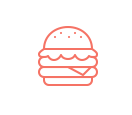
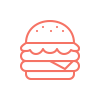
info page done

Changed region(s): [[0.18, 0.18, 0.81, 0.81], [0.48, 0.3, 0.54, 0.33]]

diff --git a/css/style.css b/css/style.css
@@ -4,16 +4,43 @@ body {
 }
 @font-face {
     font-family: Custom;
-    src: url("../font/Lato-Bla.ttf"),
-    url("../font/Lato-BlaIta.ttf"),
-    url("../font/Lato-Bol.ttf"),
-    url("../font/Lato-Bolita.ttf"),
-    url("../font/Lato-Hai.ttf"),
-    url("../font/Lato-HaiIta.ttf"),
-    url("../font/Lato-Lig.ttf"),
-    url("../font/Lato-LigIta.ttf"),
-    url("../font/Lato-Reg.ttf"),
-    url("../font/Lato-RegIta.ttf");
+    src: url("../font/Lato-Bla.ttf");
+}
+@font-face {
+    font-family: Lato-BlaIta;
+    src: url("../font/Lato-BlaIta.ttf");
+}
+@font-face {
+    font-family: Lato-Bol;
+    src: url("../font/Lato-Bol.ttf");
+}
+@font-face {
+    font-family: Lato-BolIta;
+    src: url("../font/Lato-Bolita.ttf");
+}
+@font-face {
+    font-family: Lato-Hai;
+    src: url("../font/Lato-Hai.ttf");
+}
+@font-face {
+    font-family: Lato-HaiIta;
+    src: url("../font/Lato-HaiIta.ttf");
+}
+@font-face {
+    font-family: Lato-Lig;
+    src: url("../font/Lato-Lig.ttf");
+}
+@font-face {
+    font-family: Lato-LigIta;
+    src: url("../font/Lato-LigIta.ttf");
+}
+@font-face {
+    font-family: Lato-Reg;
+    src: url("../font/Lato-Reg.ttf");
+}
+@font-face {
+    font-family: Lato-RegIta;
+    src: url("../font/Lato-RegIta.ttf");
 }
 
 
@@ -67,11 +94,71 @@ body {
 
 .info {
     background: #ffffff;
-    padding-top: 20%;
+    height: 400px;
 }
+.infoContent {
+    margin-left: 1%;
+    margin-top: 7%;
+}
+
+.burger {
+    border: 2px solid black;
+    padding: 2px;
+    border-radius: 50px;
+
+}
+.money {
+    border: 2px solid black;
+    padding: 2px;
+    border-radius: 50px;
+}
+.cook {
+    border: 2px solid black;
+    padding: 2px;
+    border-radius: 50px;
+}
+.iconSign {
+    font-size: 14px;
+    color:black;
+    text-align: center;
+
+}
+.iconSign h3 {
+    font-family: Lato-Bol;
+    text-transform: uppercase;
+
+
+}
+
+.iconSign p {
+    font-size: 10px;
+    margin-top: 5px;
+    padding: 11px;
+    text-transform: lowercase;
+    font-weight: 200;
+    line-height: 1.7;
+    font-family: Lato-Lig;
+
+}
+.border {
+   position: relative;
+}
+.border:before {
+    position: absolute;
+    top: 6px;
+    left: 40%;
+    width: 20%;
+    border-top: 1px solid #f57365;
+    content:"";
+
+
+}
+
 .aboutApp {
-    padding-top: 40%;
+    height: 800px;
     background: #ECECEC;
+    background: url("../images/iphone.png") no-repeat;
+    background-size: cover;
 }
 .recall {
     background: #452F3F;

diff --git a/index.html b/index.html
@@ -42,11 +42,29 @@
 <div class="content">
     <div class="info">
         <div class="row">
-            <div class="col-lg-4">
-                <img src="images/burger.png" height="45px" width="50px">
+                <div class="infoContent">
+            <div class="col-lg-4 iconSign">
+                <img class="burger" src="images/burger.png" height="100px" width="100px">
+                <h3>get inspired
+                    <div class="border"></div>
+                    <p>Lorem ipsum dolor sit amet, consectetur adipiscing elit, sed do eiusmod tempor incididunt ut labore et dolore magna aliqua.</p>
+                </h3>
             </div>
-            <div class="col-lg-4"></div>
-            <div class="col-lg-4"></div>
+            <div class="col-lg-4 iconSign">
+                <img class="money" src="images/money.png" height="100px" width="100px">
+                <h3>get rewarded
+                    <div class="border"></div>
+                    <p>Lorem ipsum dolor sit amet, consectetur adipiscing elit, sed do eiusmod tempor incididunt ut labore et dolore magna aliqua.</p>
+                </h3>
+            </div>
+            <div class="col-lg-4 iconSign">
+                <img class="cook" src="images/cook.png" height="100px" width="100px">
+                <h3>get social
+                    <div class="border"></div>
+                    <p>Lorem ipsum dolor sit amet, consectetur adipiscing elit, sed do eiusmod tempor incididunt ut labore et dolore magna aliqua.</p>
+                </h3>
+            </div>
+                </div>
         </div>
     </div>
     <div class="aboutApp">
